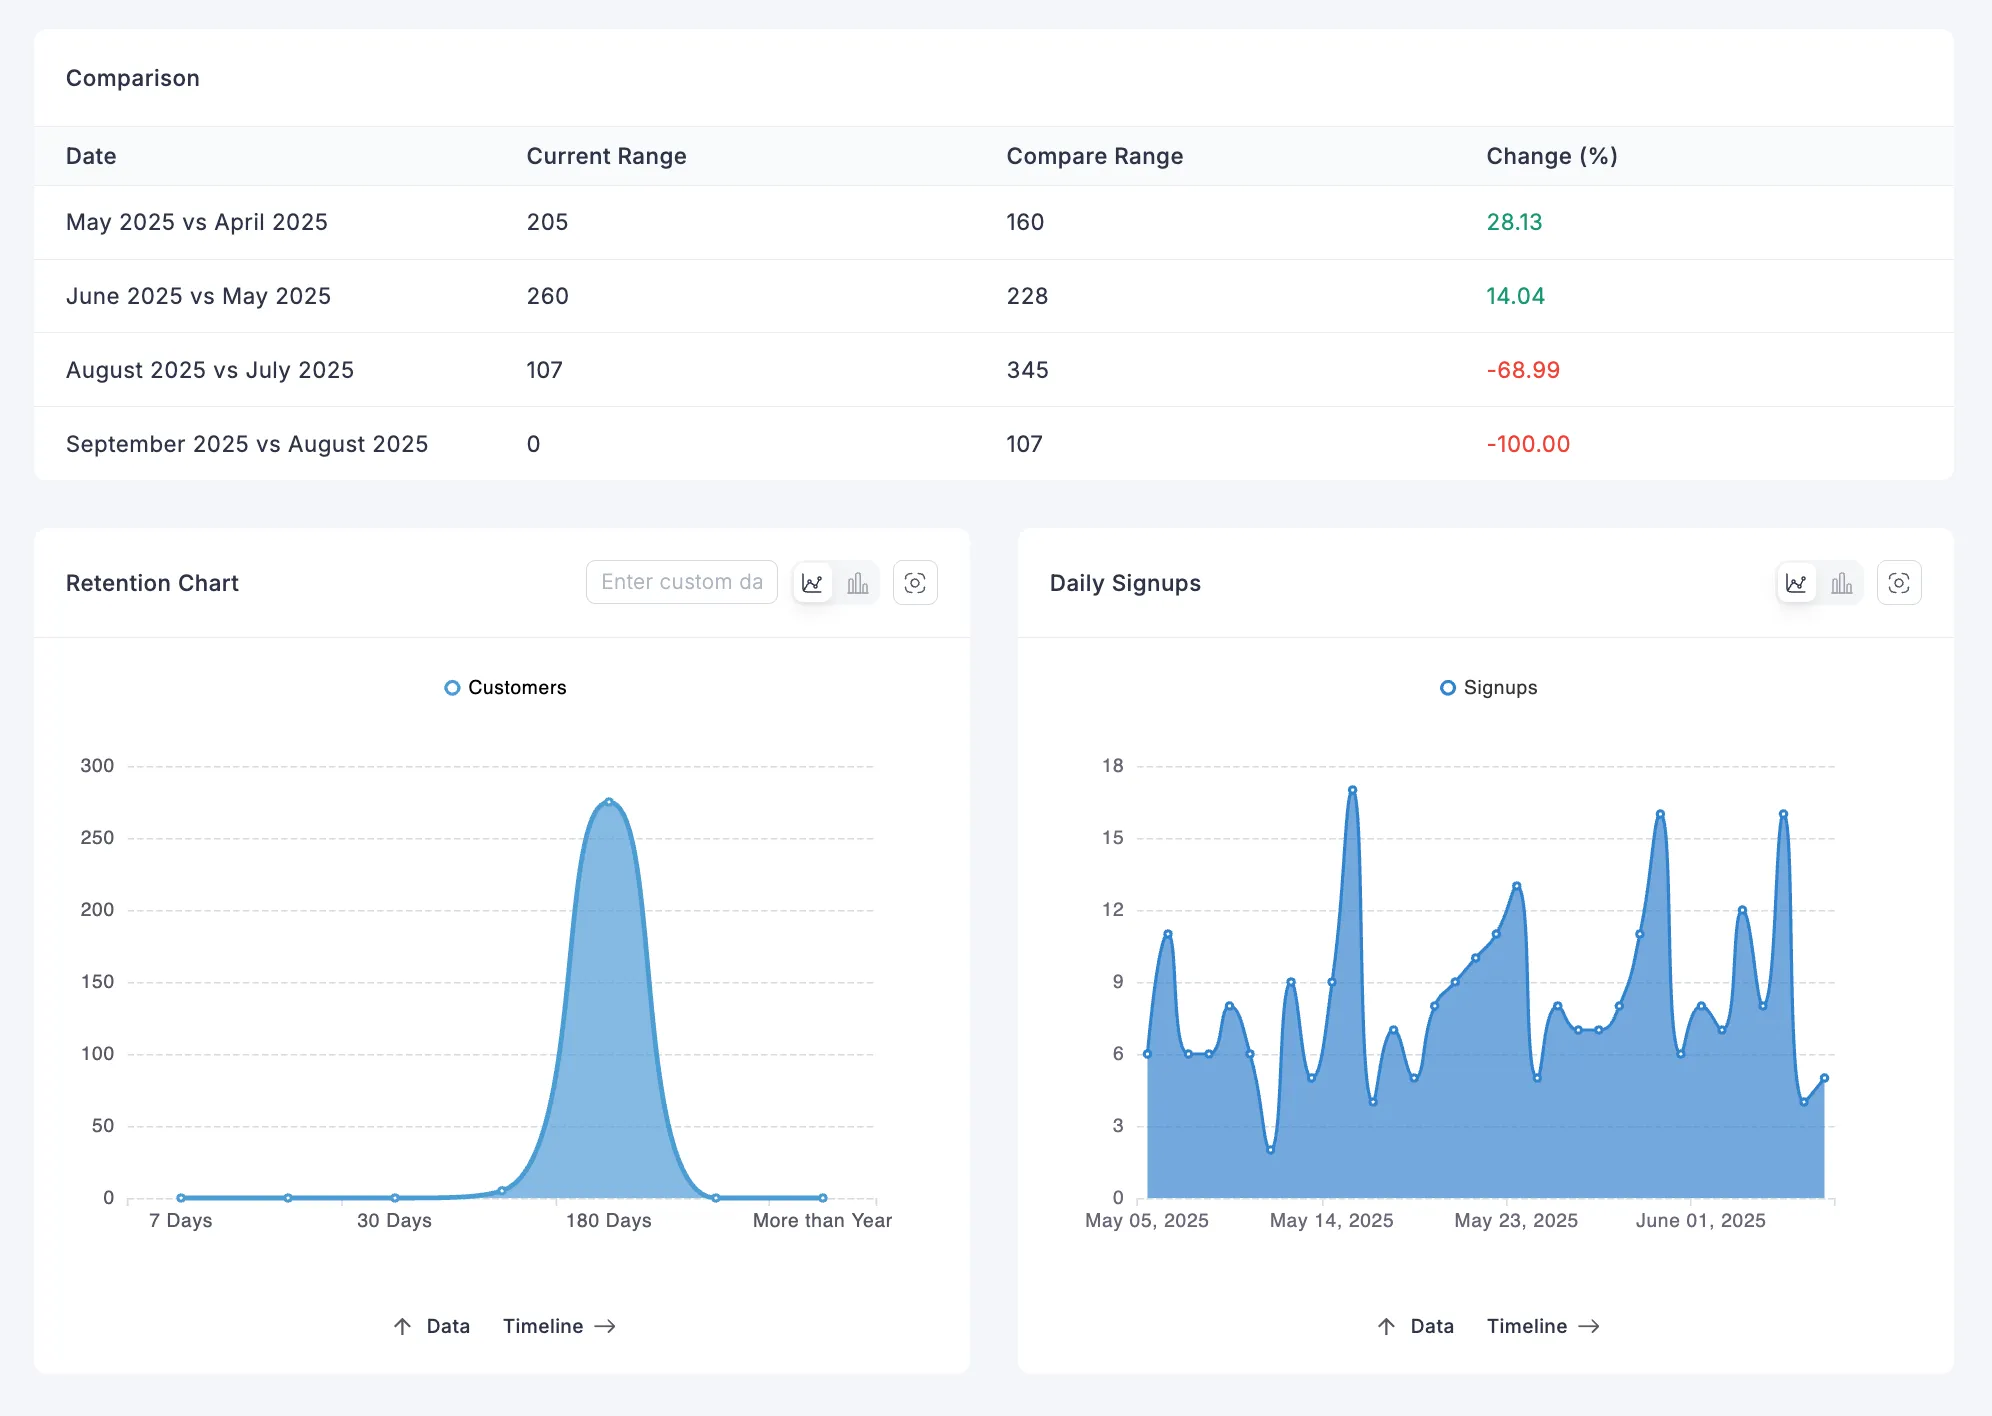
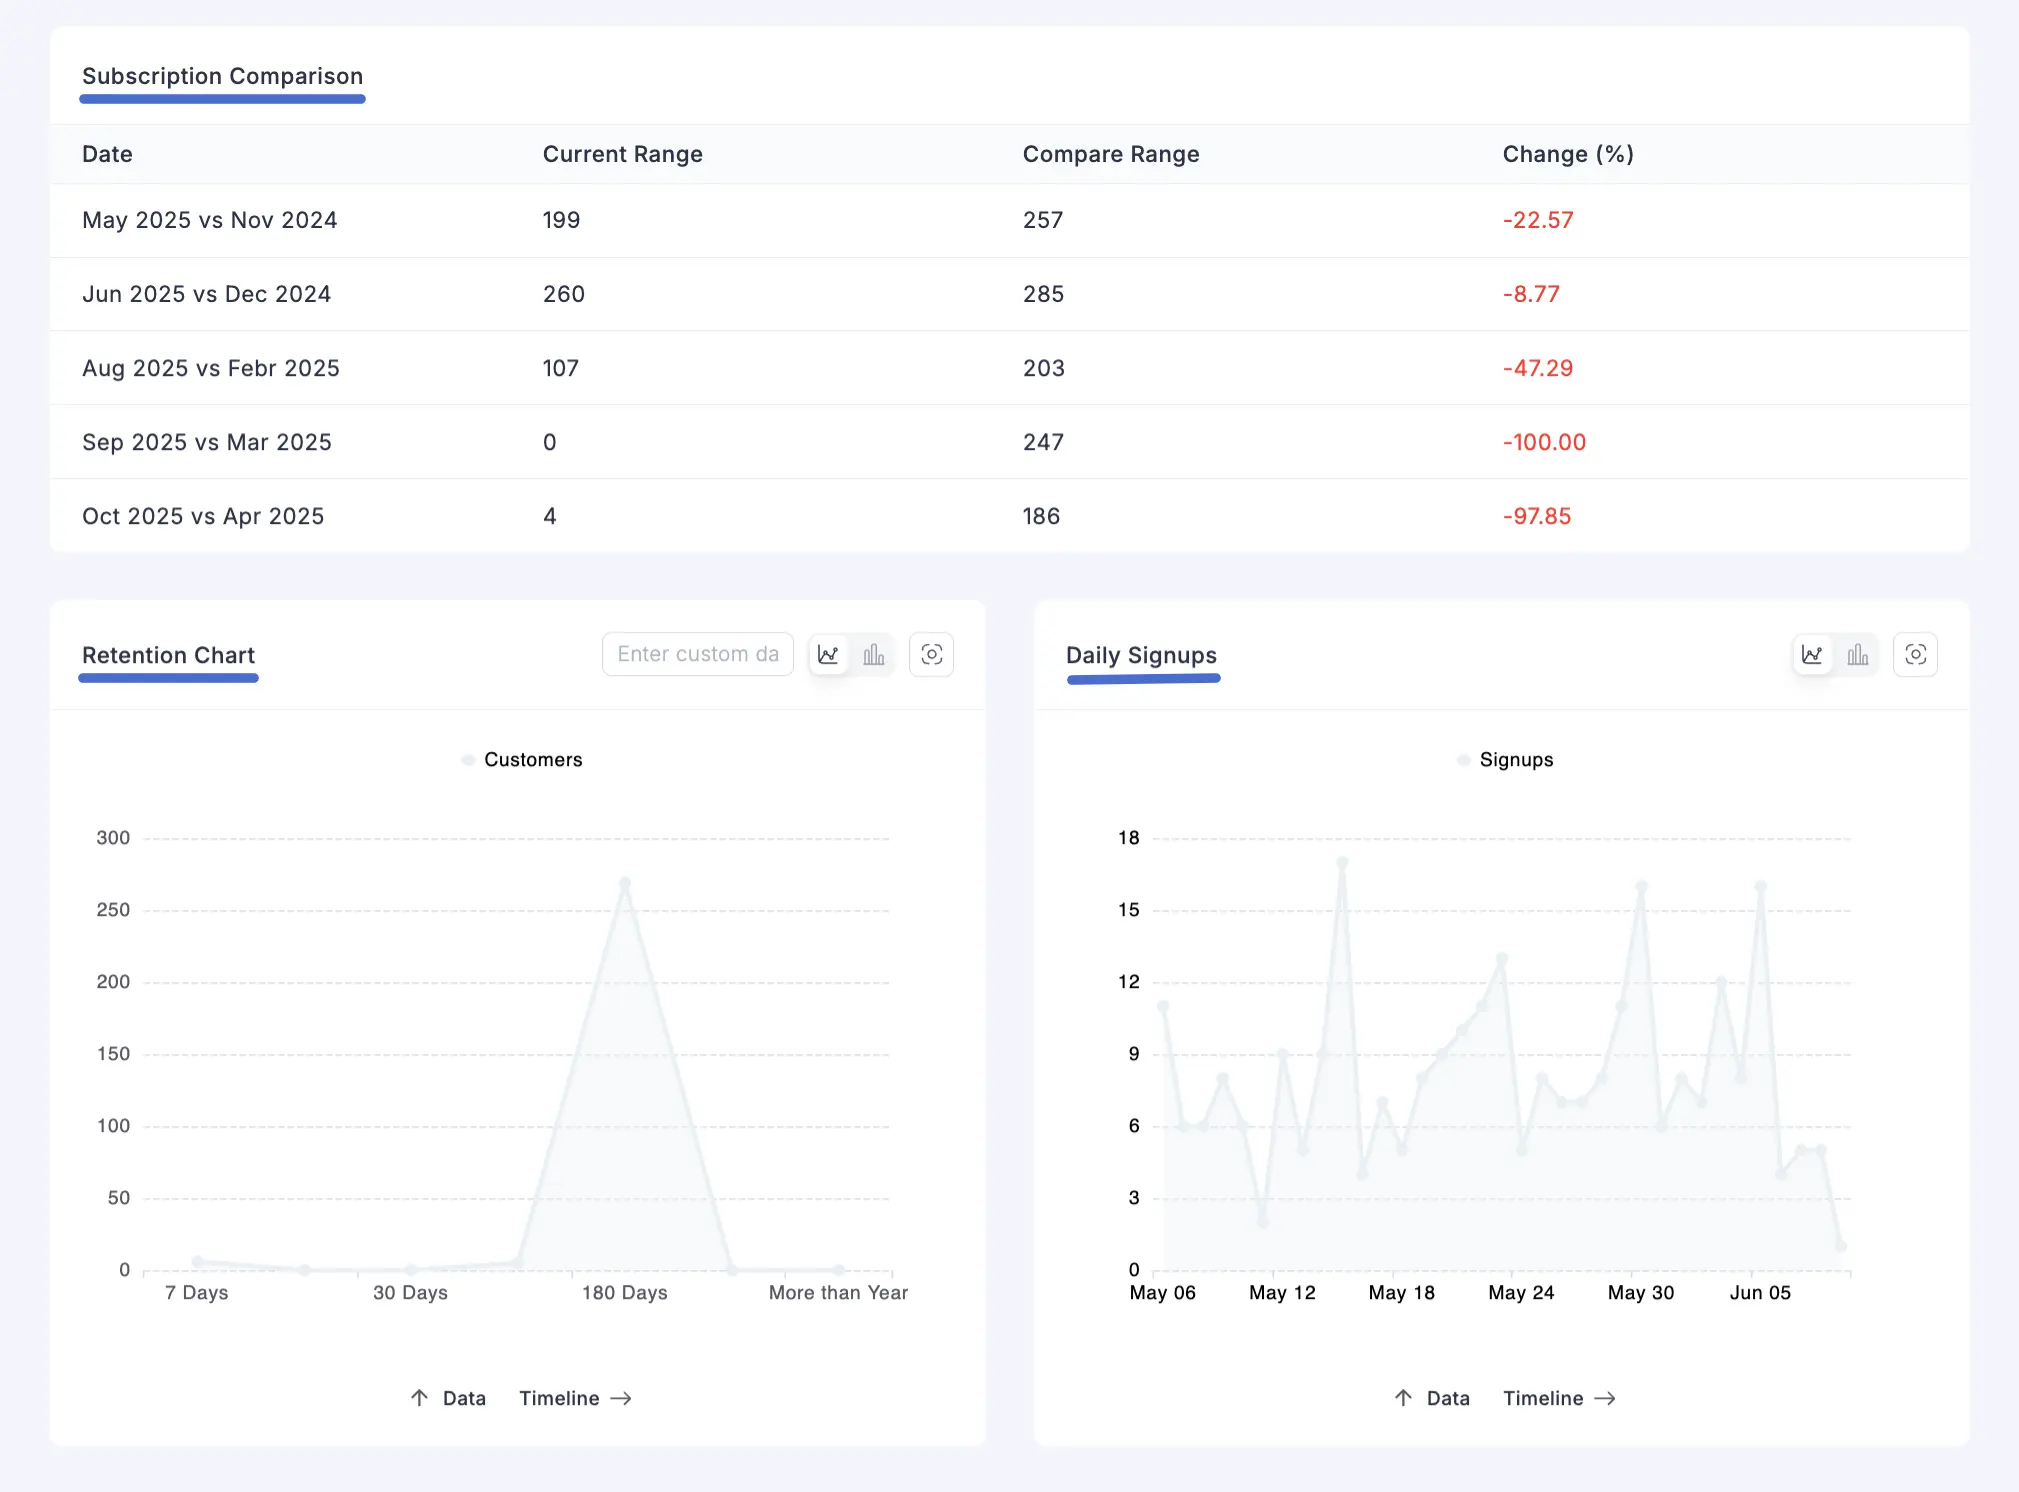
Update Subscription Report doc
Subscription Report doc description update and image change

diff --git a/guide/reporting-analytics/subscription-report.md b/guide/reporting-analytics/subscription-report.md
@@ -27,7 +27,7 @@ You can also use the interactive controls in the top-right corner of the chart t
 
   ![Screenshot of Report Subscriprtion Page](/images/reporting-analytics/subscription/subscription-chart.webp)
 
-### Comparison Table
+### Subscription Comparison 
 
 The **Comparison** table provides the exact numbers from the visualization. This section is essential for seeing the precise data behind your growth trends.
 
